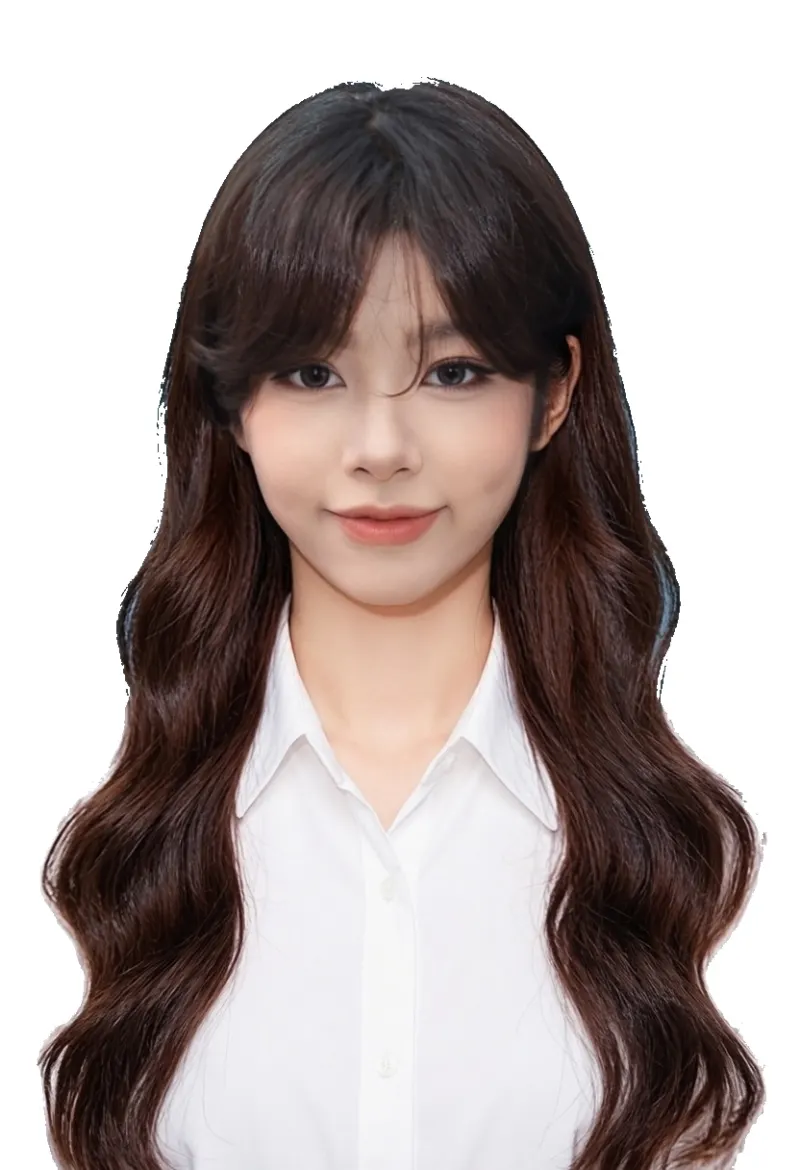
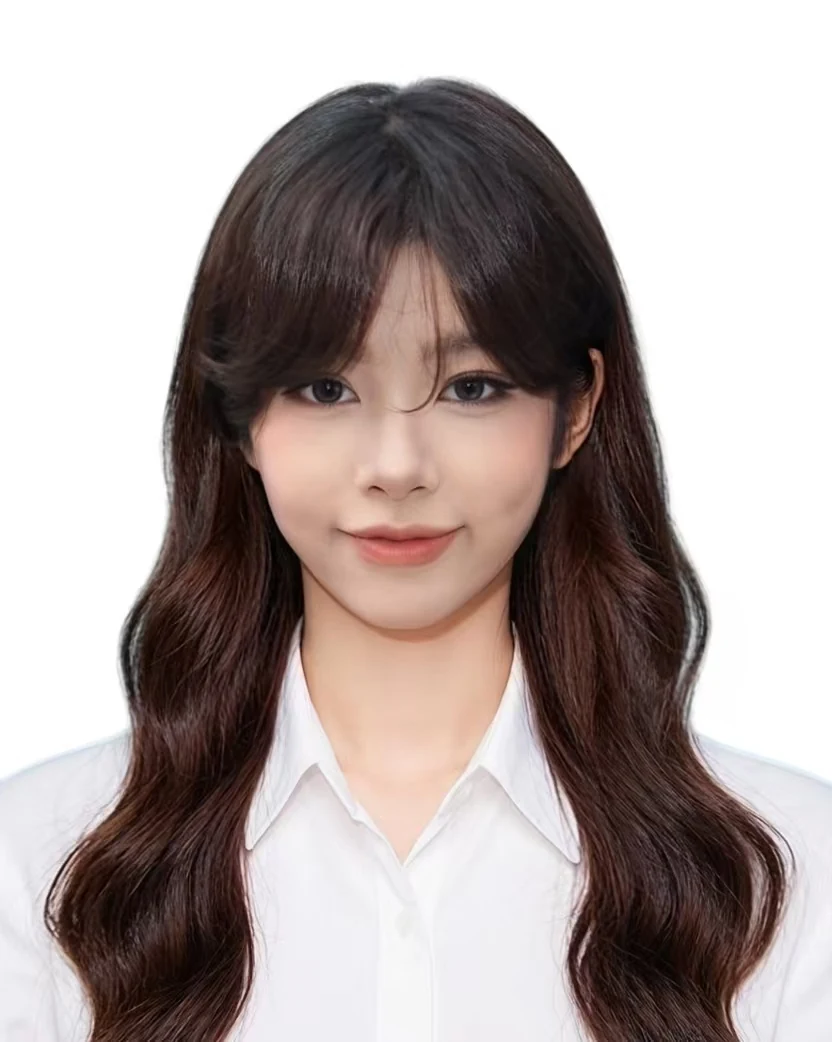
Update profile photo and refine project archive

diff --git a/app.js b/app.js
@@ -8,8 +8,7 @@ const projects=[
 {id:'defect',title:'残次标准与流程治理',type:'流程治理',category:'governance',status:'标准与培训完成',proof:'约 35 万条记录 / 数百条规则',summary:'先统一标准与责任，再讨论数字化。',problem:'多角色之间存在多套判定、申诉、退供与考核规则。',work:['梳理历史数据和规则','拆分可拍板项与待访谈项','推动标准确认和培训'],evidence:'推进到标准、流程和培训阶段。',boundary:'系统化后续未持续推进，不能写成完整上线闭环。'},
 {id:'hive',title:'AI 项目管理平台',type:'AI 项目治理',category:'governance',status:'一期基础完成',proof:'约 31 个项目 / 六阶段治理',summary:'把准入、资源、代码、真实使用与催办串成连续治理链。',problem:'内部 AI 项目可能缺少入口、负责人、采用监控和退出机制。',work:['设计六阶段治理框架','完成登记号、状态机和登记册基础','明确本人版本和后续接手边界'],evidence:'完成项目章程与一期登记闸门基础。',boundary:'建群、代码监控和使用埋点未全部落地。',image:'assets/previews/ai-platform.webp'},
 {id:'buyflow',title:'行政采购协同平台',type:'企业协同产品',category:'product',status:'高完成度 Demo',proof:'提单 → 发货 → 对账',summary:'用供应商 H5 和统一状态减少群聊追问与重复录入。',problem:'行政采购依赖群聊、纸质单据和反复沟通。',work:['设计端到端闭环','按供应商自动拆单','覆盖物流、签收和对账'],evidence:'代码覆盖主要模块。',boundary:'核心链路仍包含模拟数据，不能写成已上线成果。',image:'assets/previews/buyflow.webp'},
-{id:'dictionary',title:'数据字典准确性与消歧',type:'AI 查数 / 数据语义',category:'governance',status:'诊断与测试完成',proof:'L0 / L1 / L2 三层诊断',summary:'在准确率与体验之间建立分层处理。',problem:'自然语言可能选错指标或静默默认错误口径。',work:['量化关键词冲突','设计按风险分层的澄清策略','用对抗测试校正理论规则'],evidence:'完成问题分层、方案和对抗测试。',boundary:'部分方向仍待真实用户查询验证。',image:'assets/previews/dictionary.webp'},
-{id:'causal',title:'商品行为因果档案',type:'个人研究',category:'research',status:'研究方案阶段',proof:'交易 / 行为 / 语言 / 比较',summary:'研究顾客为什么选择或放弃，不把相关性包装成因果。',problem:'单看销售无法区分商品、价格、陈列和购买任务的影响。',work:['建立四类证据结构','从 3-8 个可比商品开始','限定 AI 只辅助整理和提出假设'],evidence:'已形成研究方案和方法边界。',boundary:'尚未得到真实顾客因果结论。'}
+{id:'dictionary',title:'数据字典准确性与消歧',type:'AI 查数 / 数据语义',category:'governance',status:'诊断与测试完成',proof:'L0 / L1 / L2 三层诊断',summary:'在准确率与体验之间建立分层处理。',problem:'自然语言可能选错指标或静默默认错误口径。',work:['量化关键词冲突','设计按风险分层的澄清策略','用对抗测试校正理论规则'],evidence:'完成问题分层、方案和对抗测试。',boundary:'部分方向仍待真实用户查询验证。',image:'assets/previews/dictionary.webp'}
 ];
 
 const caseDetails={
@@ -22,8 +21,7 @@ catalog:{thesis:'把商品图片、属性和到货信息放进同一个可筛选
 defect:{thesis:'规则不统一时直接做系统，只会把争议、例外和责任空白固化进去。',role:'历史数据梳理、规则归并、跨部门讨论、标准确认与培训推动。',maturity:'完成标准、流程与培训；系统化后续没有持续推进。',context:'残次处理横跨门店、仓库、区域、供应商与商品管理，判定、申诉、折让、退供和考核规则并存。',users:'门店、仓库、区域、供应商管理与商品管理相关角色。',solution:'先从历史数据和规则中识别冲突，把争议拆成可拍板项和待访谈项，统一标准、责任、例外和申诉流程。',features:['约 35 万条历史记录分析','数百条规则归并与冲突识别','变价、退供、调拨、折让等规则明确','标准确认与业务培训'],aiTitle:'AI 可以帮忙整理规则，但不能代替组织拍板。',aiNote:'规则抽取和冲突聚类适合 AI 辅助；责任划分、例外政策和考核方式必须由业务共同确认。项目的关键产品判断是先治理，再数字化。',aiSplit:[['AI','辅助整理历史规则与争议线索'],['BUSINESS','确认标准、责任、例外和申诉'],['SYSTEM NEXT','在稳定规则上构建工作台']],decisions:['先统一标准，再统一流程，最后讨论数字化','把争议拆成可拍板项与待访谈项','没有持续授权时，不把规划包装成上线成果'],process:['分析历史记录','整理并分类规则','组织业务讨论与拍板','形成标准和流程','完成培训并划定后续'],next:'如重新获得正式授权，先验证标准执行，再规划数字化工作台。'},
 hive:{thesis:'把准入、负责人、资源、代码、真实使用与催办串成连续的 AI 项目治理链。',role:'提出治理逻辑，设计六阶段框架，并完成本人版本的一期登记闸门基础。',maturity:'本人版本完成一期基础；后续由他人接手，完整治理链尚未全部落地。',context:'约 31 个内部 AI 项目分散推进，可能缺少统一入口、知情负责人、代码托管、使用监控与退出机制。',users:'AI 项目发起人、部门负责人、技术支持与需要掌握项目健康度的管理者。',solution:'以登记号为准入闸门，逐步连接建群、受控 AI 入口、代码提交、真实使用和 Deadline 追踪。',features:['六阶段项目治理框架','登记字段、登记号与状态机','项目登记册、身份登录与移动端基础','人员选择的搜索交互','代码、采用与 Deadline 的后续健康度设计'],aiTitle:'治理对象不是模型，而是项目责任与真实采用。',aiNote:'AI 项目能否成功，不能只看 Demo。平台需要确认谁负责、代码是否持续、是否有人使用、困难是什么，以及什么时候退出或继续投入。',aiSplit:[['GATE','立项价值、负责人和登记号'],['HEALTH','代码提交、真实使用和进度'],['GOVERNANCE','催办、资源决策与退出机制']],decisions:['没有登记号不进入下一阶段','用群成员和身份回填真实负责人','代码提交与真实使用必须进入项目健康度'],process:['形成项目章程','设计六阶段路线图','完成登记表单与状态机','搭建登记册和登录基础','划定本人版本与后续接手边界'],next:'钉钉建群、代码监控、使用埋点和 Deadline 机器人仍需正式资源实现。'},
 buyflow:{thesis:'用统一状态和供应商免登录 H5，减少行政采购中的群聊追问、重复录入与跑腿对账。',role:'端到端流程、角色信息架构、异常状态、供应商协同和对账体验设计。',maturity:'高完成度 Demo；核心链路仍含模拟数据，尚未真实上线。',context:'行政采购依赖群聊追问、纸质单据和供应商跑腿，提单、审批、发货、签收与对账之间缺少统一状态。',users:'区域 HR、采购执行、审批人、供应商与签收人员。',solution:'申请后按供应商自动拆单，供应商通过有时效链接进入 H5 填写物流，采购方持续追踪异常、签收和对账。',features:['申请、审批、拆单、发货、签收和对账闭环','供应商免注册 H5 与有时效 Token','部分发货、无法接单和异常数量状态','物流追踪、二维码与对账 PDF','按角色收敛导航和信息量'],aiTitle:'流程自动化比聊天机器人更重要。',aiNote:'这个场景的核心是统一状态与减少重复操作。AI 可辅助解释申请、识别异常或生成摘要，但不应增加一个需要员工重复维护的入口。',aiSplit:[['SYSTEM','拆单、状态流转、物流与对账'],['AI OPTIONAL','摘要、异常说明与材料辅助'],['HUMAN','审批、供应商协商与异常处理']],decisions:['按首选供应商自动拆单','供应商免注册，但 Token 必须有时效和状态','不重复建设审批 UI，正式方案应穿透现有审批'],process:['还原提单到对账链路','定义角色和状态','覆盖异常与供应商协同','完成高完整度 Demo','等待真实数据和试用验证'],next:'接入真实审批、采购数据和供应商试用，并用真实计时验证效率。'},
-dictionary:{thesis:'把 AI 查数不准拆成复合需求、词条选择和口径对齐三层，而不是只靠增加反问。',role:'错误链路诊断、冲突扫描、澄清策略、对抗测试和产品取舍。',maturity:'完成诊断、方案与对抗测试；部分规则仍待真实用户查询校准。',context:'用户用自然语言查数时，一个词可能命中多个指标；即使指标正确，时间、退货和粒度口径也可能被静默默认。',users:'使用自然语言查询经营数据的业务人员，以及维护数据字典和查数体验的团队。',solution:'把错误链路拆成 L0 复合需求、L1 词条选择和 L2 口径对齐，并按风险决定直接回答、默认声明或发起确认。',features:['指标索引与关键词冲突扫描','真实歧义与噪音分层','低打扰的澄清策略','对抗测试与规则修正','面向真实查询的回归评测方向'],aiTitle:'准确率和交互成本需要一起设计。',aiNote:'每次都反问会让系统安全却难用；从不确认又会静默出错。AI 负责理解语言，数据字典提供标准指标，产品策略根据风险决定何时打断。',aiSplit:[['AI','理解复合需求与用户表达'],['DICTIONARY','提供标准指标、口径和受控查询'],['UX POLICY','按风险决定默认、声明或确认']],decisions:['够具体则不打断，模糊时默认并声明，高风险才确认','理论关键词冲突必须用真实查询校准','数据权限不能寄托在提示词层'],process:['扫描指标与触发词','划分三层错误链路','设计分层澄清策略','执行对抗测试','转向真实查询评测'],next:'收集真实用户查询，建立可回归评测集并量化准确率与体验权衡。'},
-causal:{thesis:'连接交易、行为、语言与自然比较，解释顾客为什么选择或放弃，而不把相关性包装成因果。',role:'个人研究方向定义、证据结构、方法边界和小样本验证方案。',maturity:'个人研究方案阶段，尚未形成真实顾客因果结论。',context:'销售结果只能说明发生了什么，无法区分商品属性、价格、陈列、库存与购买任务分别产生了什么影响。',users:'需要理解顾客选择并据此调整商品、企划或经营动作的 ToC 业务团队。',solution:'用交易、行为、语言和自然比较四类证据共同描述选择机制，从 3—8 个可比商品开始回答一个真实决策。',features:['交易结果与未购买结果','停留、触摸、试穿、比较和放弃行为','顾客需求与顾虑的语言证据','价格、陈列和库存变化下的自然比较'],aiTitle:'AI 只能整理证据，不能生成顾客事实。',aiNote:'AI 可用于编码观察记录、聚类语言和提出待验证假设；所有结论必须回到真实行为、经营条件与结果比较，相关性不能直接升级为因果。',aiSplit:[['EVIDENCE','交易、行为、语言与自然比较'],['AI','整理、编码并提出可检验假设'],['DECISION','用经营结果反证或修正判断']],decisions:['第一阶段只研究 3—8 个可比商品','同时记录商品、价格、陈列、库存和购买任务','不做人脸识别，不使用无权限数据'],process:['选择一个真实商品决策','定义四类证据','设计小样本观察与比较','用 AI 辅助整理假设','用经营结果验证或修正'],next:'完成第一轮小规模真实研究，先回答一个决策，再讨论平台化。'}
+dictionary:{thesis:'把 AI 查数不准拆成复合需求、词条选择和口径对齐三层，而不是只靠增加反问。',role:'错误链路诊断、冲突扫描、澄清策略、对抗测试和产品取舍。',maturity:'完成诊断、方案与对抗测试；部分规则仍待真实用户查询校准。',context:'用户用自然语言查数时，一个词可能命中多个指标；即使指标正确，时间、退货和粒度口径也可能被静默默认。',users:'使用自然语言查询经营数据的业务人员，以及维护数据字典和查数体验的团队。',solution:'把错误链路拆成 L0 复合需求、L1 词条选择和 L2 口径对齐，并按风险决定直接回答、默认声明或发起确认。',features:['指标索引与关键词冲突扫描','真实歧义与噪音分层','低打扰的澄清策略','对抗测试与规则修正','面向真实查询的回归评测方向'],aiTitle:'准确率和交互成本需要一起设计。',aiNote:'每次都反问会让系统安全却难用；从不确认又会静默出错。AI 负责理解语言，数据字典提供标准指标，产品策略根据风险决定何时打断。',aiSplit:[['AI','理解复合需求与用户表达'],['DICTIONARY','提供标准指标、口径和受控查询'],['UX POLICY','按风险决定默认、声明或确认']],decisions:['够具体则不打断，模糊时默认并声明，高风险才确认','理论关键词冲突必须用真实查询校准','数据权限不能寄托在提示词层'],process:['扫描指标与触发词','划分三层错误链路','设计分层澄清策略','执行对抗测试','转向真实查询评测'],next:'收集真实用户查询，建立可回归评测集并量化准确率与体验权衡。'}
 };
 
 const steps=[

diff --git a/index.html b/index.html
@@ -89,11 +89,11 @@
       <header><div><p class="label">PROJECT ARCHIVE</p><h2>完整项目档案</h2></div><p>从已上线系统到研究方案，每个项目都标注真实成熟度、本人职责与结果证据。</p></header>
       <div class="archive-toolbar">
         <div class="filters"><button class="active" data-filter="all">All</button><button data-filter="product">Products</button><button data-filter="governance">Governance</button><button data-filter="research">Research</button></div>
-        <div class="archive-actions"><span id="archiveCounter">11 PROJECTS</span></div>
+        <div class="archive-actions"><span id="archiveCounter">10 PROJECTS</span></div>
       </div>
       <div class="archive-reel">
         <div class="reel-track" id="reelGrid" aria-label="横向胶片项目浏览"></div>
-        <div class="reel-footer"><span>DRAG / TRACKPAD / SWIPE</span><div class="reel-progress"><i id="reelProgress"></i></div><span id="reelCount">01 / 11</span></div>
+        <div class="reel-footer"><span>DRAG / TRACKPAD / SWIPE</span><div class="reel-progress"><i id="reelProgress"></i></div><span id="reelCount">01 / 10</span></div>
       </div>
     </section>
 
@@ -103,7 +103,7 @@
     </section>
 
     <section class="about">
-      <div class="portrait"><img src="assets/id-photo.webp" width="800" height="1170" loading="lazy" decoding="async" alt="王瑾俪"></div>
+      <div class="portrait"><img src="assets/id-photo.webp" width="832" height="1042" loading="lazy" decoding="async" alt="王瑾俪"></div>
       <div><p class="label">ABOUT</p><h2>王瑾俪</h2><p>业务 AI 产品经理 / 零售数字化</p><p>我希望在真实零售业务中，用数据产品与 AI 改善商品企划、经营协作和决策效率。先理解业务为什么这样运转，再决定哪里值得被系统化、哪里适合使用 AI。</p></div>
     </section>
   </main>
